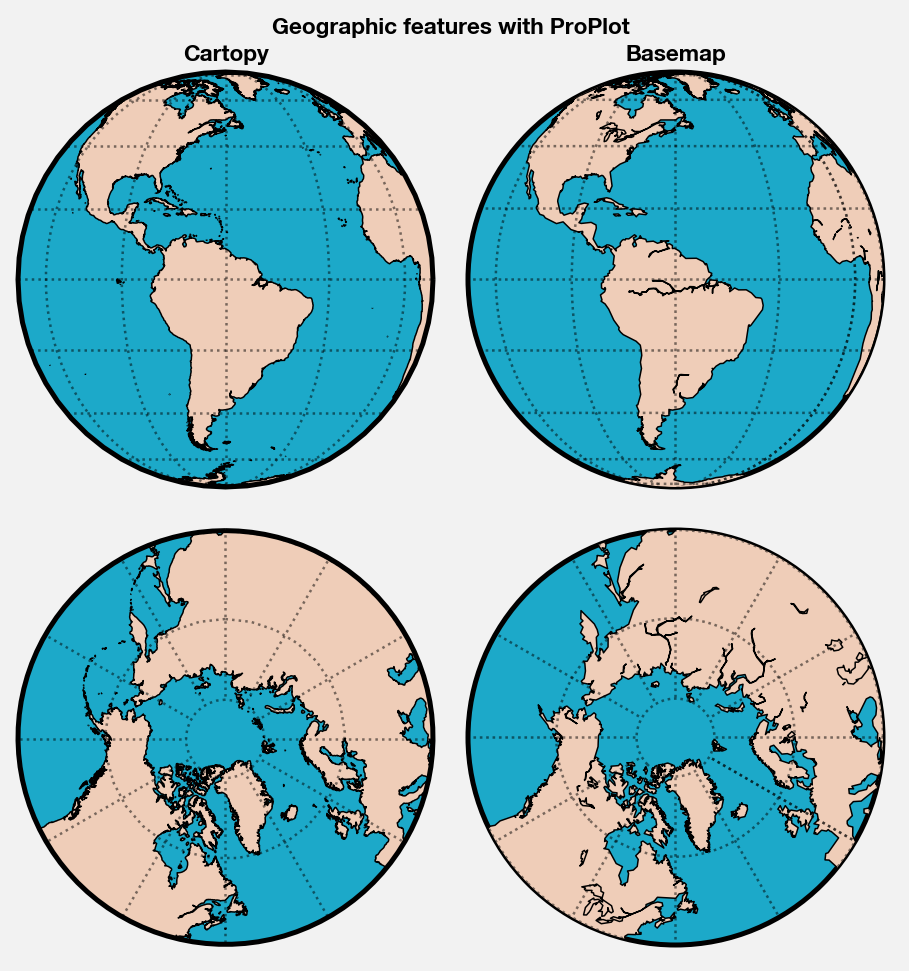
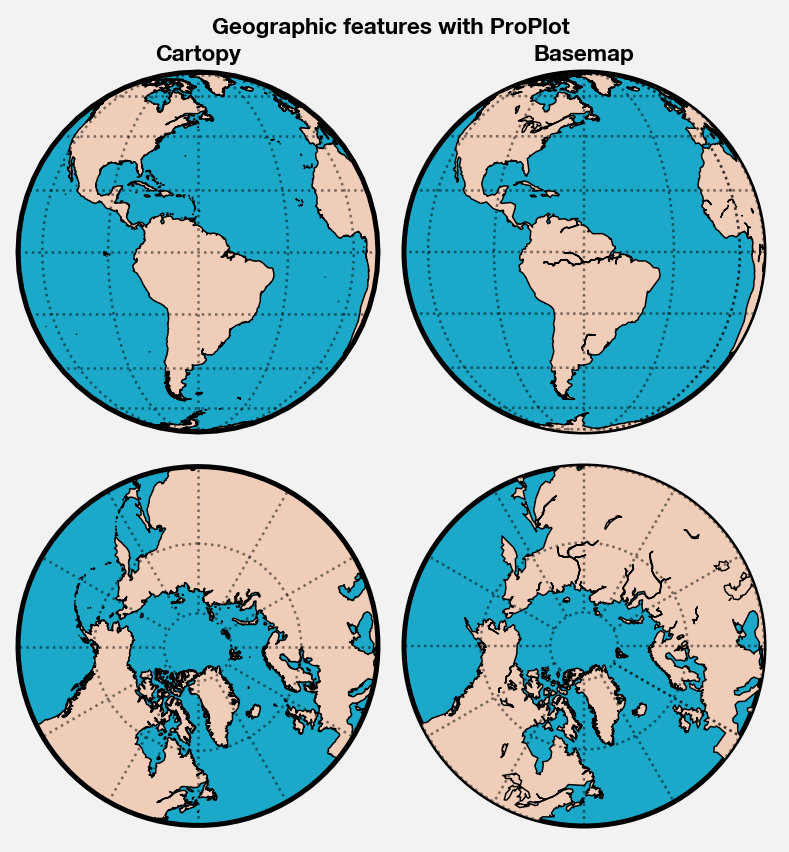
Update docs

diff --git a/docs/showcase.rst b/docs/showcase.rst
@@ -548,7 +548,7 @@ label grid boxes in `~matplotlib.axes.Axes.pcolor` and
     f, axs = plot.subplots(ncols=2, span=False, share=False)
     data = np.random.rand(7,7)
     ax = axs[0]
-    m = ax.pcolormesh(data, cmap='greys', labels=True)
+    m = ax.pcolormesh(data, cmap='greys', labels=True, levels=100)
     ax.format(xlabel='xlabel', ylabel='ylabel', title='Pcolor plot with labels', titleweight='bold')
     ax = axs[1]
     m = ax.contourf(data.cumsum(axis=0), cmap='greys', cmap_kw={'right':0.8})
@@ -1023,7 +1023,7 @@ easily label your axes as fractions or as geographic coordinates. You
 can also just pass a list of strings or a ``%``-style format directive.
 
 See `~proplot.axes.XYAxes.smart_update` and
-`~proplot.axes.XYAxes.Formatter` for details.
+`~proplot.axistools.Formatter` for details.
 
 .. code:: ipython3
 
@@ -1056,8 +1056,9 @@ ticked at those units. Pass a ``(unit, interval)`` tuple to tick every
 ``interval`` ``unit``\ s. Use the ``formatter`` argument for `%-style
 formatting of
 datetime <https://docs.python.org/3/library/datetime.html#strftime-strptime-behavior>`__.
-Again, see `~proplot.axistools.Locator` and
-`~proplot.axistools.Formatter` for details.
+Again, see `~proplot.axes.XYAxes.smart_update`,
+`~proplot.axistools.Locator`, and `~proplot.axistools.Formatter` for
+details.
 
 .. code:: ipython3
 
@@ -1398,8 +1399,8 @@ Again, see `~proplot.subplots.subplots` and
 
 
 .. image:: showcase/showcase_85_0.png
-   :width: 454px
-   :height: 485px
+   :width: 394px
+   :height: 426px
 
 
 .. code:: ipython3
